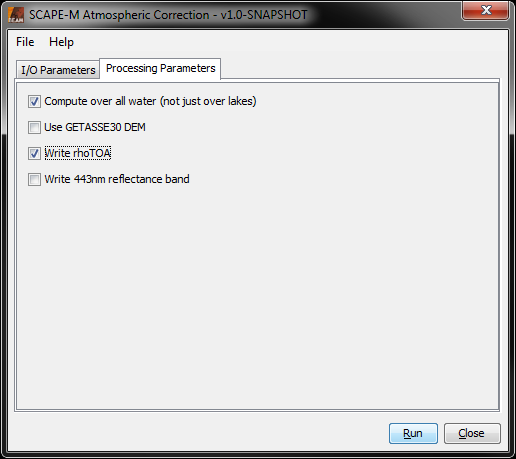
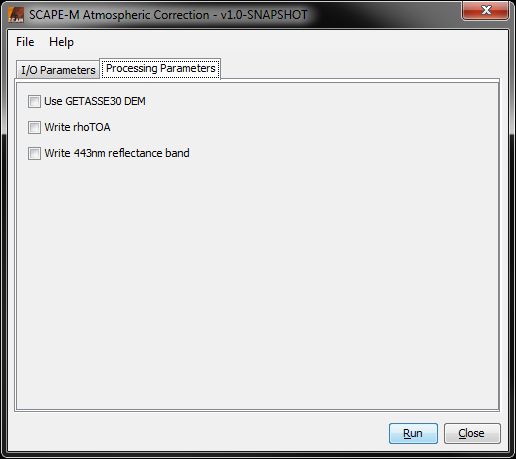
now always compute everywhere (no longer a user option); further improved performance

Changed region(s): [[0.031, 0.2135, 0.4961, 0.3965]]

diff --git a/src/main/resources/doc/help/scapem/ScapeMProcessorDescription.html b/src/main/resources/doc/help/scapem/ScapeMProcessorDescription.html
@@ -101,11 +101,11 @@
 
 <h5>Parameters</h5>
 
-<p class="i1">
-    <b>Compute over all waters (not just over lakes): </b>
-    If selected, the processor will, although not primarily designed for this purpose, be applied over
-    all water surfaces (i.e. open oceans) instead of only over inland lakes and coastal waters.
-</p>
+<!--<p class="i1">-->
+    <!--<b>Compute over all waters (not just over lakes): </b>-->
+    <!--If selected, the processor will, although not primarily designed for this purpose, be applied over-->
+    <!--all water surfaces (i.e. open oceans) instead of only over inland lakes and coastal waters.-->
+<!--</p>-->
 
 <p class="i1">
     <b>Use GETASSE30 DEM: </b>

diff --git a/src/main/java/org/esa/beam/operator/ScapeMGapFillOp.java b/src/main/java/org/esa/beam/operator/ScapeMGapFillOp.java
@@ -22,10 +22,10 @@ import java.awt.*;
  * @author Tonio Fincke, Olaf Danne
  */
 @OperatorMetadata(alias = "beam.scapeM.gapfill", version = "1.0-SNAPSHOT",
-                  authors = "Tonio Fincke, Olaf Danne",
-                  copyright = "(c) 2013 Brockmann Consult",
-                  internal = true,
-                  description = "Provides the visibility gap filling as used in IDL breadboard.")
+        authors = "Tonio Fincke, Olaf Danne",
+        copyright = "(c) 2013 Brockmann Consult",
+        internal = true,
+        description = "Provides the visibility gap filling as used in IDL breadboard.")
 public class ScapeMGapFillOp extends ScapeMMerisBasisOp implements Constants {
 
     @SourceProduct(alias = "source")
@@ -58,15 +58,9 @@ public class ScapeMGapFillOp extends ScapeMMerisBasisOp implements Constants {
 
         rectCalculator = new RectangleExtender(
                 new Rectangle(sourceProduct.getSceneRasterWidth(),
-                              sourceProduct.getSceneRasterHeight()),
+                        sourceProduct.getSceneRasterHeight()),
                 3 * pixelsPerCell,
                 3 * pixelsPerCell);
-
-//        rectCalculator = new RectangleExtender(
-//                new Rectangle(sourceProduct.getSceneRasterWidth(),
-//                              sourceProduct.getSceneRasterHeight()),
-//                sourceProduct.getSceneRasterWidth(),
-//                sourceProduct.getSceneRasterHeight());
 
         tileWidth = (int) gapProduct.getPreferredTileSize().getWidth();
         tileHeight = (int) gapProduct.getPreferredTileSize().getHeight();
@@ -99,35 +93,38 @@ public class ScapeMGapFillOp extends ScapeMMerisBasisOp implements Constants {
         } else {
             // do gap filling by interpolation
             final int minimumDistanceToEdge = getMinimumDistanceToEdge(tileIndexX,
-                                                                       tileIndexY,
-                                                                       numberOfCellColumns,
-                                                                       numberOfCellRows);
+                    tileIndexY,
+                    numberOfCellColumns,
+                    numberOfCellRows);
 
             double visInterpolValue;
             if (minimumDistanceToEdge >= 2) {
-                System.out.println("minimumDistanceToEdge = " + minimumDistanceToEdge + " // " + tileIndexX + "," + tileIndexY);
-                if (minimumDistanceToEdge == 2 && tileIndexX == 8 && tileIndexY == 2) {
-                    System.out.println("minimumDistanceToEdge = " + minimumDistanceToEdge);
-                }
-                visInterpolValue = interpolateOverRegion(sourceVisibilityTile, targetRect, tileIndexX, tileIndexY, 2, noDataValue);
+                visInterpolValue = interpolateOverRegion(sourceVisibilityTile, tileIndexX, tileIndexY, 2, noDataValue);
             } else if (minimumDistanceToEdge == 1) {
-                System.out.println("minimumDistanceToEdge = " + minimumDistanceToEdge + " // " + tileIndexX + "," + tileIndexY);
-                visInterpolValue = interpolateOverRegion(sourceVisibilityTile, targetRect, tileIndexX, tileIndexY, 1, noDataValue);
+                visInterpolValue = interpolateOverRegion(sourceVisibilityTile, tileIndexX, tileIndexY, 1, noDataValue);
             } else {
-                System.out.println("minimumDistanceToEdge = " + minimumDistanceToEdge + " // " + tileIndexX + "," + tileIndexY);
                 visInterpolValue = interpolateAtCornerOrBorder(numberOfCellColumns, numberOfCellRows,
-                                                               sourceVisibilityTile, targetRect, tileIndexX, tileIndexY, noDataValue);
+                        sourceVisibilityTile, tileIndexX, tileIndexY, noDataValue);
             }
             if (visInterpolValue == 0 && minimumDistanceToEdge >= 3) {
-                System.out.println("visInterpolValue = " + visInterpolValue + " // " + tileIndexX + "," + tileIndexY);
-                visInterpolValue = interpolateOverRegion(sourceVisibilityTile, targetRect, tileIndexX, tileIndexY, 3, noDataValue);
+                visInterpolValue = interpolateOverRegion(sourceVisibilityTile, tileIndexX, tileIndexY, 3, noDataValue);
             }
             if (visInterpolValue == 0) {
+                synchronized (this) {
+                    if (visImageMean == 0.0) {
+                        visImageMean = getVisibilityImageMean();
+                    }
+                }
                 visInterpolValue = visImageMean;
             }
 
             setCellVisibilitySamples(targetTile, targetRect, visInterpolValue);
         }
+    }
+
+     /* package local for testing*/
+    static int getMinimumDistanceToEdge(int x, int y, int numberOfCellColumns, int numberOfCellRows) {
+        return Math.min(x, Math.min(y, Math.min(numberOfCellColumns - 1 - x, numberOfCellRows - 1 - y)));
     }
 
     private void createTargetProduct() throws OperatorException {
@@ -165,28 +162,14 @@ public class ScapeMGapFillOp extends ScapeMMerisBasisOp implements Constants {
         }
     }
 
-    /* package local for testing*/
-    static int getMinimumDistanceToEdge(int x, int y, int numberOfCellColumns, int numberOfCellRows) {
-        return Math.min(x,
-                        Math.min(y,
-                                 Math.min(numberOfCellColumns - 1 - x,
-                                          numberOfCellRows - 1 - y)));
-    }
-
-    /* package local for testing*/
-    static float interpolateOverRegion(Tile visSourceTile,
-                                       Rectangle targetRect, int x, int y, int neighboringDistance, double noDataValue) {
+    private float interpolateOverRegion(Tile visSourceTile, int x, int y, int neighboringDistance, double noDataValue) {
         float meanValue = 0;
         int validNeighboringCellsCounter = 0;
         for (int i = -neighboringDistance; i <= neighboringDistance; i++) {
             for (int j = -neighboringDistance; j <= neighboringDistance; j++) {
-                final int xAssign = (x + i) * targetRect.width;
-                final int yAssign = (y + j) * targetRect.height;
-                if (xAssign >= visSourceTile.getMaxX() || xAssign <= visSourceTile.getMinX() ||
-                        yAssign >= visSourceTile.getMaxY() || yAssign <= visSourceTile.getMinY())  {
-                    System.out.println("yAssign = " + yAssign);
-                }
-                final double visValue = visSourceTile.getSampleDouble(xAssign, yAssign);
+                final int xAssign = x + i;
+                final int yAssign = y + j;
+                final double visValue = visSourceTile.getSampleDouble(xAssign * tileWidth, yAssign * tileHeight);
                 if (visValue != noDataValue) {
                     meanValue += visValue;
                     validNeighboringCellsCounter++;
@@ -199,19 +182,19 @@ public class ScapeMGapFillOp extends ScapeMMerisBasisOp implements Constants {
         return meanValue;
     }
 
-    /* package local for testing*/
-    static float interpolateAtCornerOrBorder(int numberOfCellColumns, int numberOfCellRows, Tile visSourceTile,
-                                             Rectangle targetRect, int x, int y, double noDataValue) {
+    private float interpolateAtCornerOrBorder(int numberOfCellColumns, int numberOfCellRows, Tile visSourceTile,
+                                              int x, int y, double noDataValue) {
         float mean = 0;
         int validCellsCounter = 0;
+
         for (int i = -1; i <= 1; i++) {
             for (int j = -1; j <= 1; j++) {
-                final int xAssign = (x + i) * targetRect.width;
-                final int yAssign = (y + j) * targetRect.height;
+                final int xAssign = x + i;
+                final int yAssign = y + j;
                 final int minimumDistanceToEdgeAssign
                         = getMinimumDistanceToEdge(xAssign, yAssign, numberOfCellColumns, numberOfCellRows);
                 if (minimumDistanceToEdgeAssign >= 0) {
-                    final double visValue = visSourceTile.getSampleDouble(xAssign, yAssign);
+                    final double visValue = visSourceTile.getSampleDouble(xAssign * tileWidth, yAssign * tileHeight);
                     if (visValue != noDataValue) {
                         mean += visValue;
                         validCellsCounter++;

diff --git a/src/main/java/org/esa/beam/operator/ScapeMOp.java b/src/main/java/org/esa/beam/operator/ScapeMOp.java
@@ -3,6 +3,7 @@ package org.esa.beam.operator;
 import com.bc.ceres.core.ProgressMonitor;
 import com.bc.ceres.swing.progress.DialogProgressMonitor;
 import org.esa.beam.ScapeMConstants;
+import org.esa.beam.framework.datamodel.Band;
 import org.esa.beam.framework.datamodel.Product;
 import org.esa.beam.framework.datamodel.ProductData;
 import org.esa.beam.framework.gpf.GPF;
@@ -35,15 +36,15 @@ import java.util.Map;
 public class ScapeMOp extends ScapeMMerisBasisOp implements Constants {
     public static final String VERSION = "1.0-SNAPSHOT";
 
-    @Parameter(description = "Compute over all water (not just over lakes)",
-               label = "Compute over all water (not just over lakes)",
-               defaultValue = "true")
-    private boolean computeOverWater;
+//    @Parameter(description = "Compute over all water (not just over lakes)",
+//               label = "Compute over all water (not just over lakes)",
+//               defaultValue = "true")
+    private boolean computeOverWater = true;    // it is much faster, as we do not need to compute the coast/lakes mask
 
-    @Parameter(description = "Use constant water vapour value of 2 g/cm^2 to save processing time",
-               label = "Use constant water vapour value of 2 g/cm^2",
-               defaultValue = "false")
-    private boolean useConstantWv;
+//    @Parameter(description = "Use constant water vapour value of 2.0 g/cm^2 to save processing time",
+//               label = "Use constant water vapour value of 2.0 g/cm^2",
+//               defaultValue = "false")
+    private boolean useConstantWv = false;  // performance gain is negligible, so do not use as option for the moment
 
     @Parameter(description = "If set, use GETASSE30 DEM, otherwise get altitudes from product TPGs",
                label = "Use GETASSE30 DEM",
@@ -81,7 +82,7 @@ public class ScapeMOp extends ScapeMMerisBasisOp implements Constants {
     @Override
     public void initialize() throws OperatorException {
         checkProductStartStopTimes();
-//        readAuxdata();
+        readAuxdata();
 
         final long t1 = System.currentTimeMillis();
         readAuxdata();
@@ -92,6 +93,7 @@ public class ScapeMOp extends ScapeMMerisBasisOp implements Constants {
         Map<String, Product> idepixInput = new HashMap<String, Product>(4);
         idepixInput.put("source", sourceProduct);
         Map<String, Object> cloudParams = new HashMap<String, Object>(1);
+        cloudParams.put("calculateLakes", !computeOverWater);
         cloudProduct = GPF.createProduct(OperatorSpi.getOperatorAlias(FubScapeMOp.class), cloudParams, idepixInput);
 
         final long t3 = System.currentTimeMillis();
@@ -108,34 +110,15 @@ public class ScapeMOp extends ScapeMMerisBasisOp implements Constants {
         scapeMVisibilityOp.setScapeMLut(scapeMLut);
         cellVisibilityProduct  = scapeMVisibilityOp.getTargetProduct();
 
-//        Map<String, Product> cellVisibilityInput = new HashMap<String, Product>(4);
-//        cellVisibilityInput.put("source", sourceProduct);
-//        cellVisibilityInput.put("cloud", cloudProduct);
-//        Map<String, Object> visParams = new HashMap<String, Object>(1);
-//        visParams.put("scapeMLut", scapeMLut);
-//        visParams.put("computeOverWater", computeOverWater);
-//        visParams.put("useDEM", useDEM);
-//        cellVisibilityProduct = GPF.createProduct(OperatorSpi.getOperatorAlias(ScapeMVisibilityOp.class), visParams, cellVisibilityInput);
-
         final long t4 = System.currentTimeMillis();
         getLogger().info("step 2 "+(t4-t3)+" ms");
 
         // fill gaps...
 //        gapFilledVisibilityProduct = cellVisibilityProduct; // test!!
-
-        // old implementation:
-//        try {
-//            gapFilledVisibilityProduct = ScapeMGapFill.gapFill(cellVisibilityProduct);
-//        } catch (IOException e) {
-//            throw new OperatorException(e.getMessage(), e);
-//        }
-
-        // new implementation:
         final ScapeMGapFillOp scapeMGapFillOp = new ScapeMGapFillOp();
         scapeMGapFillOp.setSourceProduct("source", sourceProduct);
         scapeMGapFillOp.setSourceProduct("gap", cellVisibilityProduct);
         gapFilledVisibilityProduct  = scapeMGapFillOp.getTargetProduct();
-
 
         Map<String, Product> smoothInput = new HashMap<String, Product>(4);
         smoothInput.put("source", sourceProduct);
@@ -152,38 +135,18 @@ public class ScapeMOp extends ScapeMMerisBasisOp implements Constants {
         scapeMVis2AotOp.setScapeMLut(scapeMLut);
         aotProduct = scapeMVis2AotOp.getTargetProduct();
 
-//        Map<String, Product> aotConvertInput = new HashMap<String, Product>(4);
-//        aotConvertInput.put("source", sourceProduct);
-//        aotConvertInput.put("visibility", smoothedVisibilityProduct);
-//        Map<String, Object> aotConvertParams = new HashMap<String, Object>(1);
-//        aotConvertParams.put("scapeMLut", scapeMLut);
-//        aotProduct = GPF.createProduct(OperatorSpi.getOperatorAlias(ScapeMVis2AotOp.class),
-//                                       aotConvertParams, aotConvertInput);
-
         final long t6 = System.currentTimeMillis();
         getLogger().info("step 4 "+(t6-t5)+" ms");
 
         // derive CWV...
         // derive reflectance...
-//        Map<String, Product> atmosCorrInput = new HashMap<String, Product>(4);
-//        atmosCorrInput.put("source", sourceProduct);
-//        atmosCorrInput.put("cloud", cloudProduct);
-//        atmosCorrInput.put("visibility", smoothedVisibilityProduct);
-//        Map<String, Object> atmosCorrParams = new HashMap<String, Object>(1);
-//        atmosCorrParams.put("scapeMLut", scapeMLut);
-//        atmosCorrParams.put("computeOverWater", computeOverWater);
-//        atmosCorrParams.put("useDEM", useDEM);
-//        atmosCorrParams.put("outputRhoToa", outputRhoToa);
-//        atmosCorrParams.put("outputReflBand2", outputReflBand2);
-//        atmosCorrProduct = GPF.createProduct(OperatorSpi.getOperatorAlias(ScapeMAtmosCorrOp.class),
-//                                             atmosCorrParams, atmosCorrInput);
-
         final ScapeMAtmosCorrOp scapeMAtmosCorrOp = new ScapeMAtmosCorrOp();
         scapeMAtmosCorrOp.setSourceProduct("source", sourceProduct);
         scapeMAtmosCorrOp.setSourceProduct("cloud", cloudProduct);
         scapeMAtmosCorrOp.setSourceProduct("visibility", smoothedVisibilityProduct);
         scapeMAtmosCorrOp.setParameter("computeOverWater", computeOverWater);
         scapeMAtmosCorrOp.setParameter("useDEM", useDEM);
+        scapeMAtmosCorrOp.setParameter("useConstantWv", useConstantWv);
         scapeMAtmosCorrOp.setParameter("outputRhoToa", outputRhoToa);
         scapeMAtmosCorrOp.setParameter("outputReflBand2", outputReflBand2);
         scapeMAtmosCorrOp.setScapeMLut(scapeMLut);
@@ -192,13 +155,13 @@ public class ScapeMOp extends ScapeMMerisBasisOp implements Constants {
         final long t7 = System.currentTimeMillis();
         getLogger().info("step 5 "+(t7-t6)+" ms");
 
-//        targetProduct = atmosCorrProduct;
+        targetProduct = atmosCorrProduct;
 //        targetProduct = cellVisibilityProduct;
-        targetProduct = gapFilledVisibilityProduct;
+//        targetProduct = gapFilledVisibilityProduct;
 //        targetProduct = smoothedVisibilityProduct;
         ProductUtils.copyFlagBands(cloudProduct, targetProduct, true);
         ProductUtils.copyMasks(cloudProduct, targetProduct);
-//        ProductUtils.copyBand(ScapeMConstants.AOT550_BAND_NAME, aotProduct, atmosCorrProduct, true);
+        ProductUtils.copyBand(ScapeMConstants.AOT550_BAND_NAME, aotProduct, atmosCorrProduct, true);
     }
 
     private void checkProductStartStopTimes() {

diff --git a/src/main/java/org/esa/beam/operator/ScapeMAtmosCorrOp.java b/src/main/java/org/esa/beam/operator/ScapeMAtmosCorrOp.java
@@ -255,8 +255,7 @@ public class ScapeMAtmosCorrOp extends ScapeMMerisBasisOp implements Constants {
                 }
             }
         } catch (Exception e) {
-            // todo
-            e.printStackTrace();
+            throw new OperatorException("An unexpected error occurred during atmospheric correction: ", e);
         }
     }
 
